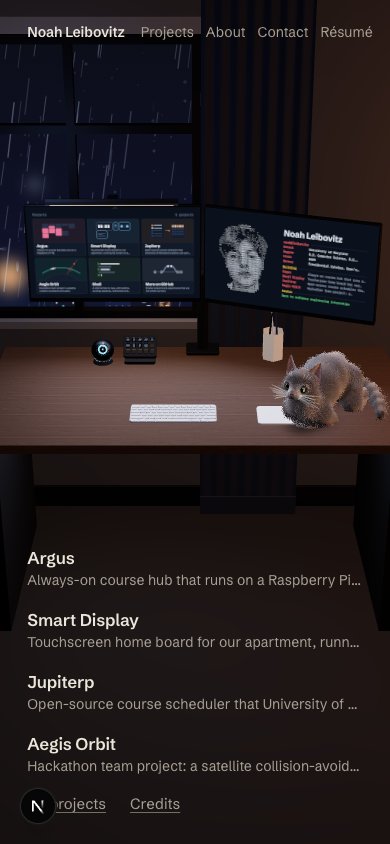
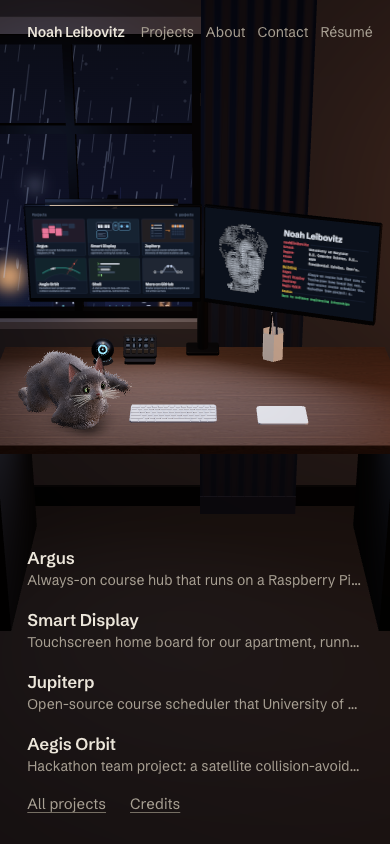
Cat: it watches the pointer again, and sits on the left side of the desk
"Only breathing" had switched off the pointer-watching with everything else;
Noah wanted that kept. The head and eyes now ease toward the pointer and back
to rest. The cat moves from the desk's right end to the open left side, in
front of the left monitor. Link-preview image re-captured.

diff --git a/src/scene/cat/motion.ts b/src/scene/cat/motion.ts
@@ -351,6 +351,8 @@ export class CatMotion {
   private now = 0;
   private breath = 0;
   private readonly look: V3 = [0, 0.3, 1];
+  /** 0 to 1: how far the head and eyes are given over to what it is watching. */
+  private watch: number;
   private blinkAt: number;
   private blinkT = -1;
   private twitchAt: number;
@@ -364,12 +366,14 @@ export class CatMotion {
     stance: StanceName = "loaf",
     private readonly random: () => number = Math.random,
     /**
-     * Quiet: nothing but breathing and blinking. No ear or tail flicks, no wave in the tail, and
-     * the head stays where the pose puts it instead of following the pointer or wandering.
+     * Quiet: it breathes, blinks and watches the pointer, and that is all. No ear or tail flicks,
+     * no wave in the tail, no wandering gaze: when nothing holds its interest the head rests
+     * where the pose puts it.
      */
     readonly quiet = false,
   ) {
     this.stance = stance;
+    this.watch = quiet ? 0 : 1;
     this.clip = rest(stance);
     this.clip.sample(0, this.base);
     copyPose(this.from, this.base);
@@ -550,7 +554,7 @@ export class CatMotion {
     let ty = hy + Math.sin(pitch) * 0.6 + 0.02;
     let tz = hz + Math.cos(yaw) * 0.6;
     let speed = 1.6;
-    const interest = input.pointer && !this.quiet ? clamp(input.attention) * (1 - staring) : 0;
+    const interest = input.pointer ? clamp(input.attention) * (1 - staring) : 0;
     if (input.pointer && interest > 0) {
       tx = lerp(tx, input.pointer[0], interest);
       ty = lerp(ty, input.pointer[1], interest);
@@ -571,9 +575,12 @@ export class CatMotion {
     // Following something is quick and wants every frame; the idle wander is slow and does not.
     if ((interest > 0.02 || staring > 0.02) && Math.abs(this.look[0] + this.look[1] + this.look[2] - before) > 0.0006) busy = true;
 
-    // Quiet, the head and eyes stay as the pose has them (unless an emote is played by hand).
-    const held = this.quiet && staring < 0.01 && !clip.busy;
-    const gaze = held ? 0 : pose.ch[CH.gaze];
+    // Quiet, the head and eyes turn only as far as something holds its interest, and come back to
+    // the pose as that fades. The turn itself eases in and out, so it never starts with a jerk.
+    const drawn = this.quiet && !clip.busy ? Math.max(interest, staring) : 1;
+    this.watch += (drawn - this.watch) * (1 - Math.exp(-dt * (drawn > this.watch ? 5 : 2.5)));
+    if (Math.abs(drawn - this.watch) > 0.004) busy = true;
+    const gaze = pose.ch[CH.gaze] * this.watch;
     if (gaze > 0.001) {
       this.aim(B.neck, 0.4 * gaze, 0.6, this.look[0], this.look[1], this.look[2]);
       this.aim(B.head, gaze, 0.75, this.look[0], this.look[1], this.look[2]);
@@ -586,7 +593,7 @@ export class CatMotion {
     // Into the head's own frame: the inverse turn is the same quaternion with its axis flipped.
     const hq = [-w.q[B.head * 4], -w.q[B.head * 4 + 1], -w.q[B.head * 4 + 2], w.q[B.head * 4 + 3]];
     qRotate(local, 0, hq, 0, lx / ll, ly / ll, lz / ll);
-    const eyes = held ? 0 : Math.max(gaze, 0.25);
+    const eyes = this.quiet ? gaze : Math.max(gaze, 0.25);
     const eyeYaw = clamp(Math.atan2(local[0], Math.max(0.05, local[2])), -0.42, 0.42) * 0.9 * eyes;
     const eyePitch = clamp(-Math.asin(clamp(local[1], -1, 1)), -0.3, 0.3) * 0.9 * eyes;
     const quick = 1 - Math.exp(-dt * 16);

diff --git a/src/scene/cat/cat.test.ts b/src/scene/cat/cat.test.ts
@@ -191,9 +191,8 @@ describe("as it is now: only breathing", () => {
     expect(brain.moved(400, true)).toBeNull();
   });
 
-  test("the quiet cat breathes and blinks, and nothing else moves", () => {
+  test("left alone, the quiet cat breathes and blinks, and nothing else moves", () => {
     const motion = new CatMotion("loaf", dice(6), true);
-    const pointer: [number, number, number] = [0.6, 0.2, 0.3];
     const still = ["head", "earL", "earR", "tail1", "tail4", "tail7", "hips", "chest"].map(bone);
     const first = new Float32Array(BONE_COUNT * 4);
     let ribsLow = 1;
@@ -201,8 +200,7 @@ describe("as it is now: only breathing", () => {
     let eyeLow = 1;
     let worst = 0;
     for (let i = 0; i < 60 * 40; i++) {
-      // A pointer waving about beside it: it takes no notice.
-      motion.update(1 / 60, { pointer, attention: 0.9, camera: [0.3, 0.7, 1.4] });
+      motion.update(1 / 60, input);
       if (i === 0) first.set(motion.pose.q);
       for (const b of still) {
         const dot = Math.abs(first[b * 4] * motion.pose.q[b * 4] + first[b * 4 + 1] * motion.pose.q[b * 4 + 1] + first[b * 4 + 2] * motion.pose.q[b * 4 + 2] + first[b * 4 + 3] * motion.pose.q[b * 4 + 3]);
@@ -218,6 +216,39 @@ describe("as it is now: only breathing", () => {
     // The ribs swell and sink by about two percent, and it blinked at least once.
     expect(ribsHigh - ribsLow).toBeGreaterThan(0.03);
     expect(eyeLow).toBeLessThan(0.2);
+  });
+
+  test("it watches the pointer: the head turns to it smoothly, and back when interest fades", () => {
+    const motion = new CatMotion("loaf", dice(6), true);
+    const head = bone("head");
+    const forward = () => {
+      const q = motion.world.q.subarray(head * 4, head * 4 + 4);
+      return [2 * (q[0] * q[2] + q[3] * q[1]), 2 * (q[1] * q[2] - q[3] * q[0]), 1 - 2 * (q[0] * q[0] + q[1] * q[1])];
+    };
+    for (let i = 0; i < 60; i++) motion.update(1 / 60, input);
+    const rest = forward();
+    // The pointer appears well off to the cat's left.
+    const pointer: [number, number, number] = [0.7, 0.25, 0.5];
+    const last = new Float32Array(4);
+    let worst = 0;
+    for (let i = 0; i < 60 * 3; i++) {
+      last.set(motion.pose.q.subarray(head * 4, head * 4 + 4));
+      motion.update(1 / 60, { pointer, attention: 0.9, camera: [0.3, 0.7, 1.4] });
+      const q = motion.pose.q;
+      const dot = Math.abs(last[0] * q[head * 4] + last[1] * q[head * 4 + 1] + last[2] * q[head * 4 + 2] + last[3] * q[head * 4 + 3]);
+      worst = Math.max(worst, (2 * Math.acos(Math.min(1, dot)) * 180) / Math.PI);
+    }
+    const watching = forward();
+    // It has turned its head to the left, toward the pointer, without any frame jumping.
+    expect(watching[0] - rest[0]).toBeGreaterThan(0.25);
+    expect(worst).toBeLessThan(4);
+    expect(motion.eyeYaw).toBeGreaterThan(0.02);
+    // The pointer stops; interest fades; the head comes back to where the pose has it.
+    for (let i = 0; i < 60 * 6; i++) motion.update(1 / 60, { pointer, attention: 0, camera: [0.3, 0.7, 1.4] });
+    const back = forward();
+    expect(Math.hypot(back[0] - rest[0], back[1] - rest[1], back[2] - rest[2])).toBeLessThan(0.02);
+    // Ears and tail took no part.
+    expect(motion.doing).toBe("loaf");
   });
 });
 

diff --git a/src/scene/objects/Cat.tsx b/src/scene/objects/Cat.tsx
@@ -92,7 +92,7 @@ function toCat(place: readonly number[], x: number, y: number, z: number, out: V
 
 /**
  * The cat on the desk. It is decoration: it opens nothing, has no label and takes no part in the
- * Tab order. For now it only lies in the loaf and breathes (see ONLY_BREATHING in cat/brain.ts);
+ * Tab order. For now it only lies in the loaf, breathes and watches the pointer (see ONLY_BREATHING in cat/brain.ts);
  * everything else it can do is still here. It moves only while the desk itself is on show.
  */
 export default function Cat() {
@@ -262,7 +262,7 @@ export default function Cat() {
     body.show(motion.pose, motion.world, motion.ribs, motion.eyeYaw, motion.eyePitch, motion.converge, s.seconds);
 
     // Something is moving: draw the next frame. Only breathing: a gentler pace will do.
-    if (busy || (attention > 0.02 && !motion.quiet)) three.invalidate();
+    if (busy || attention > 0.02) three.invalidate();
     else if (!s.timer)
       s.timer = setTimeout(() => {
         s.timer = null;
@@ -318,8 +318,8 @@ export default function Cat() {
       {/* What the pointer touches: a plain rounded shape about the size of the cat, never drawn. */}
       {
         <mesh
-          position={[0, 0.15, 0.03]}
-          scale={[0.15, 0.19, 0.27]}
+          position={[0, 0.11, 0.03]}
+          scale={[0.14, 0.13, 0.25]}
           visible={false}
           onPointerOver={onOver}
           onPointerOut={onOut}

diff --git a/src/scene/layout.ts b/src/scene/layout.ts
@@ -210,14 +210,15 @@ export const ORB = {
   reach: 0.45,
 };
 
-// The cat: on the desk's right end, turned a little toward the middle ---------
+// The cat: on the open left side of the desk, in front of the left monitor, turned a little
+// toward the middle. (It began on the right end; Noah moved it: "there is a lot of space".)
 
 export const CAT = {
-  position: onDesk(0.86, 0.66),
-  /** On a narrow screen the desk's right end is out of frame, so it sits a little further in. */
-  phonePosition: onDesk(0.79, 0.66),
-  /** Which way it faces: 0 is straight at the viewer, negative turns it toward the desk's middle. */
-  yaw: deg(-28),
+  position: onDesk(0.16, 0.64),
+  /** On a narrow screen the desk's ends are out of frame, so it sits a little further in. */
+  phonePosition: onDesk(0.21, 0.66),
+  /** Which way it faces: 0 is straight at the viewer, positive turns it toward the desk's middle from the left. */
+  yaw: deg(28),
 };
 
 // Keyboard and trackpad (decoration) ----------------------------------------

diff --git a/src/scene/cat/brain.ts b/src/scene/cat/brain.ts
@@ -15,8 +15,9 @@ import type { EmoteName } from "./motion";
 type Stance = "sit" | "loaf" | "side";
 
 /**
- * The cat lies in the loaf and breathes (and blinks): no emotes, no watching the pointer, no ear
- * or tail flicks, nothing in answer to a stroke or a click.
+ * The cat lies in the loaf, breathes, blinks and watches the pointer: no emotes, no ear or tail
+ * flicks, nothing in answer to a stroke or a click. (Watching the pointer was switched off with
+ * the rest at first; Noah missed it at once: "It's no longer looking at the mouse".)
  */
 export const ONLY_BREATHING = true;
 

diff --git a/CLAUDE.md b/CLAUDE.md
@@ -26,7 +26,7 @@ Priorities, in order: (1) any project is readable within two clicks, on a phone 
 - **Contact is links only: merged into `main` and published 2026-11-18** (Noah: "Publish it"). The note paper is gone; see the 2026-11-18 decision below and `docs/features/contact-page.md`. The branch `contact-links-only` still exists locally and is fully contained in `main`. Live site checked after the deploy, with screenshots at both sizes: every route 200, an unknown address 404, Contact shows the four rows and no form, nothing overflows on a phone, an empty console. (The in-app browser pane can freeze CSS animations at phone size, which leaves a page looking dim; check phone screenshots with Playwright instead.)
 - **Smooth in Safari's engine: merged into `main` and published 2026-11-18** (Noah: "Publish it"). Noah filmed frame drops in DuckDuckGo; the cause and the fix are in the 2026-11-18 decisions below. The branch `safari-smooth` still exists locally and is fully contained in `main`. Live site checked after the deploy in Chrome: every route 200, a parked project and an unknown address 404, no filter in the city, the hand cursor on the canvas only, the left monitor opens Projects and Esc closes it, no frame over 17 ms, an empty console at both sizes. The live site was not measured in Safari or DuckDuckGo (`npm run frames` measures the local build, which is the same code); the before and after numbers below are from the local build.
 - **The weather rests after a page has arrived: merged into `main` and published 2026-11-18** (Noah: "Yes, do it" to removing the last hitch when a page opens, then "Publish it"). See the last 2026-11-18 decisions below. The branch `weather-rest-later` still exists locally and is fully contained in `main`. Live site checked after the deploy in Chrome: every route 200, a parked project and an unknown address 404; opening Projects from the desk, the weather is still running as the page arrives and rests 1.5 s later; back on the desk it runs again at once; a page loaded directly rests at once; beside a project page it keeps going; behind About no label and no hand cursor; no frame over 17 ms; an empty console. Not measured on the live site in Safari or DuckDuckGo (`npm run frames` measures the local build, which is the same code).
-- **A cat on the desk: merged into `main` 2026-11-21 (Noah: "Merge it"), not published.** `main` is ahead of the live site; nothing goes live until Noah says to publish. Noah turned down two found models ("create your own"), so it is made in code. After seeing it he ruled: no drawn lines or stripes on it, and it only lies in the loaf and breathes; the five emotes he first asked for (purr, clean, loaf, roll over, stare) are built and tested but switched off. Everything about it is in `docs/features/desk-cat.md`: read that before touching `src/scene/cat/`. The branch `feature/desk-cat` still exists locally and is fully contained in `main`. Checked on `main` after the merge: 174 unit tests, and all 353 browser checks against the production build. The link-preview image was re-captured with the cat in it.
+- **A cat on the desk: merged into `main` 2026-11-21 (Noah: "Merge it"), not published.** `main` is ahead of the live site; nothing goes live until Noah says to publish. Noah turned down two found models ("create your own"), so it is made in code. After seeing it he ruled: no drawn lines or stripes on it; it sits on the left side of the desk; and it only lies in the loaf, breathes and watches the pointer; the five emotes he first asked for (purr, clean, loaf, roll over, stare) are built and tested but switched off. Everything about it is in `docs/features/desk-cat.md`: read that before touching `src/scene/cat/`. The branch `feature/desk-cat` still exists locally and is fully contained in `main`. Checked on `main` after the merge: 174 unit tests, and all 353 browser checks against the production build. The link-preview image was re-captured with the cat in it.
 - Stop at the end of each phase, show screenshots at 1440×900 and 390×844, and wait.
 
 ## Stack
@@ -216,7 +216,7 @@ assets-src/      keyboard.glb, textures/                — git-ignored
 - 2026-11-21 — **Smooth motion is a test** (`src/scene/cat/cat.test.ts`): a minute of emotes at 60 frames a second, with cuts from one into another, fails if a joint turns more than 8 degrees or the body's height moves more than 7 mm in one frame. A new emote or stance must pass it.
 - 2026-11-21 — **Plugged in, Safari's engine runs at 60 frames a second.** `npm run frames` in DuckDuckGo and Safari with the MacBook on mains power: 17 ms a frame resting and with the pointer moving, none late. That settles the open question of 2026-11-18: the steady 30 was Low Power Mode on battery.
 - 2026-11-21 — **`npm run flows` has `ONLY`**: `ONLY=desk-cat npm run flows` runs just the feature checks whose file name contains that. The hand-off timing checks (`ONLY=handoff`) are only reliable against the production build (`BASE_URL=http://localhost:3200` after a build with `NEXT_PUBLIC_SCENE_STATS=1` and `npm run preview`); against the dev server three of them fail by a frame or two, with or without the cat.
-- 2026-11-21 — **Noah's rulings on the cat, after seeing it:** no drawn lines or stripes anywhere on it ("cats don't have lines like that"): the coat is soft, uneven shading only. And it **only lies in the loaf and breathes** ("keep the cat only in loaf mode", then "Only breathing"): it breathes and blinks, with no emotes, no watching the pointer and nothing in answer to a stroke or a click. The five emotes are still in the code and tested, switched off by `ONLY_BREATHING` and `REPERTOIRE` in `src/scene/cat/brain.ts`. Do not bring stripes, emotes or reactions back without asking.
+- 2026-11-21 — **Noah's rulings on the cat, after seeing it:** no drawn lines or stripes anywhere on it ("cats don't have lines like that"): the coat is soft, uneven shading only. And it **only lies in the loaf, breathes and watches the pointer** ("keep the cat only in loaf mode", then "Only breathing", then, when the pointer-watching went with the rest, "It's no longer looking at the mouse"): it breathes, blinks and turns its head and eyes to the pointer, with no emotes, no ear or tail flicks and nothing in answer to a stroke or a click. It sits on the **left** side of the desk, in front of the left monitor ("there is a lot of space"). When Noah asks for less, take away only what he named. The five emotes are still in the code and tested, switched off by `ONLY_BREATHING` and `REPERTOIRE` in `src/scene/cat/brain.ts`. Do not bring stripes, emotes or reactions back without asking.
 
 ## Open questions for Noah
 

diff --git a/docs/features/desk-cat.md b/docs/features/desk-cat.md
@@ -6,7 +6,9 @@ Noah sent a photo of his cat, a grey tabby Siberian, and asked for it to live on
 
 ## What it does
 
-**Since 2026-11-21 the cat only lies in the loaf and breathes.** Noah first asked to "keep the cat only in loaf mode"; asked whether it should still purr and stare there, he answered "Only breathing". So it breathes and blinks, and that is all: no emotes of its own accord, no greeting, no watching the pointer, no ear or tail flicks, and nothing in answer to a stroke or a click. (It still blinks because eyes that never close look wrong; that is my call, not his.)
+**Since 2026-11-21 the cat only lies in the loaf, breathes, blinks and watches the pointer.** Noah first asked to "keep the cat only in loaf mode"; asked whether it should still purr and stare there, he answered "Only breathing". Everything was then switched off, watching the pointer included, and he missed that at once ("It's no longer looking at the mouse"), so that came back: its head and eyes turn to the pointer while it moves, and return to rest a few seconds after it stops. What stays off: emotes of its own accord, the greeting, ear and tail flicks, the wandering gaze, and any answer to a stroke or a click. (It blinks because eyes that never close look wrong; that is my call, not his.)
+
+**It sits on the left side of the desk** (Noah, the same day: "move the cat to the left side instead of the right because there is a lot of space"): in front of the left monitor, turned toward the middle. Where the text below says "the right end", read the left.
 
 Everything described below is still built and tested, just switched off: `ONLY_BREATHING` and `REPERTOIRE` in `src/scene/cat/brain.ts` decide what it does, and each emote can still be started by hand in development with `window.__cat.play("purr")`. To bring things back, set `ONLY_BREATHING` to false and list the emotes wanted in `REPERTOIRE` ("loaf", "purr" and "stare" keep it in the loaf; "clean" sits it up; "roll" lays it on its side). Do not bring any of it back without asking.
 
@@ -39,7 +41,7 @@ It is decoration: it opens nothing, has no label and no place in the Tab order. 
 - **Smoothness is tested, not judged by eye alone.** `cat.test.ts` plays a minute of emotes at 60 frames a second, cutting from one into another mid-way, and fails if any joint turns more than 8 degrees in a frame or the body's height moves more than 7 mm in a frame.
 - **No sound.** Browsers allow none before a click, and Noah asked for a purr that shakes, not one that is heard.
 - **Colors are cooler than the photo** on purpose: the room's fill light is warm, and lit by it the coat comes out the brown-grey of the photo.
-- Its place and facing are `CAT` in `src/scene/layout.ts`. On a narrow screen the desk's right end is out of frame, so it sits 10 cm further in (`phonePosition`).
+- Its place and facing are `CAT` in `src/scene/layout.ts`. On a narrow screen the desk's ends are out of frame, so it sits 7 cm further in (`phonePosition`).
 - **Noah's first notes, 2026-11-21, while it was being built:** the eyes were "a little creepy" and should be more open; the paws needed to be more defined; the face should be fluffier and closer to the real cat. Done the same day: lids open wider with almost no slant, pupils rounder, a darker iris shaded by the upper lid; four toes on each paw with the lines between them; longer fur on the forehead, brows, cheeks and jowls, longer ear tufts, a visible nose and mouth, and a muzzle that is pale grey, not white. He has not yet said whether that is enough.
 - **No drawn lines on the head** (Noah, 2026-11-21: "instead of lines on the cat's head make it more fluffy like and less lines. In actuality cats don't have lines like that"). The tabby "M" on the forehead and the two stripes across each cheek are gone. The crown is a soft, uneven, slightly darker grey, and the head's fur is longer (27 mm) and stands out more, drawn in 17 layers. Do not bring crisp markings back on the face.
 - **No drawn stripes on the body either** (Noah, the same day: "Yes, soften them"). The stripes down the flanks, the line along the spine, the rings on the legs and the tail are now only a faint, broad, uneven darkening, about a third as strong as before with no edges; the tail still darkens toward its tip. The coat's character now comes from the fur, not from a pattern.
